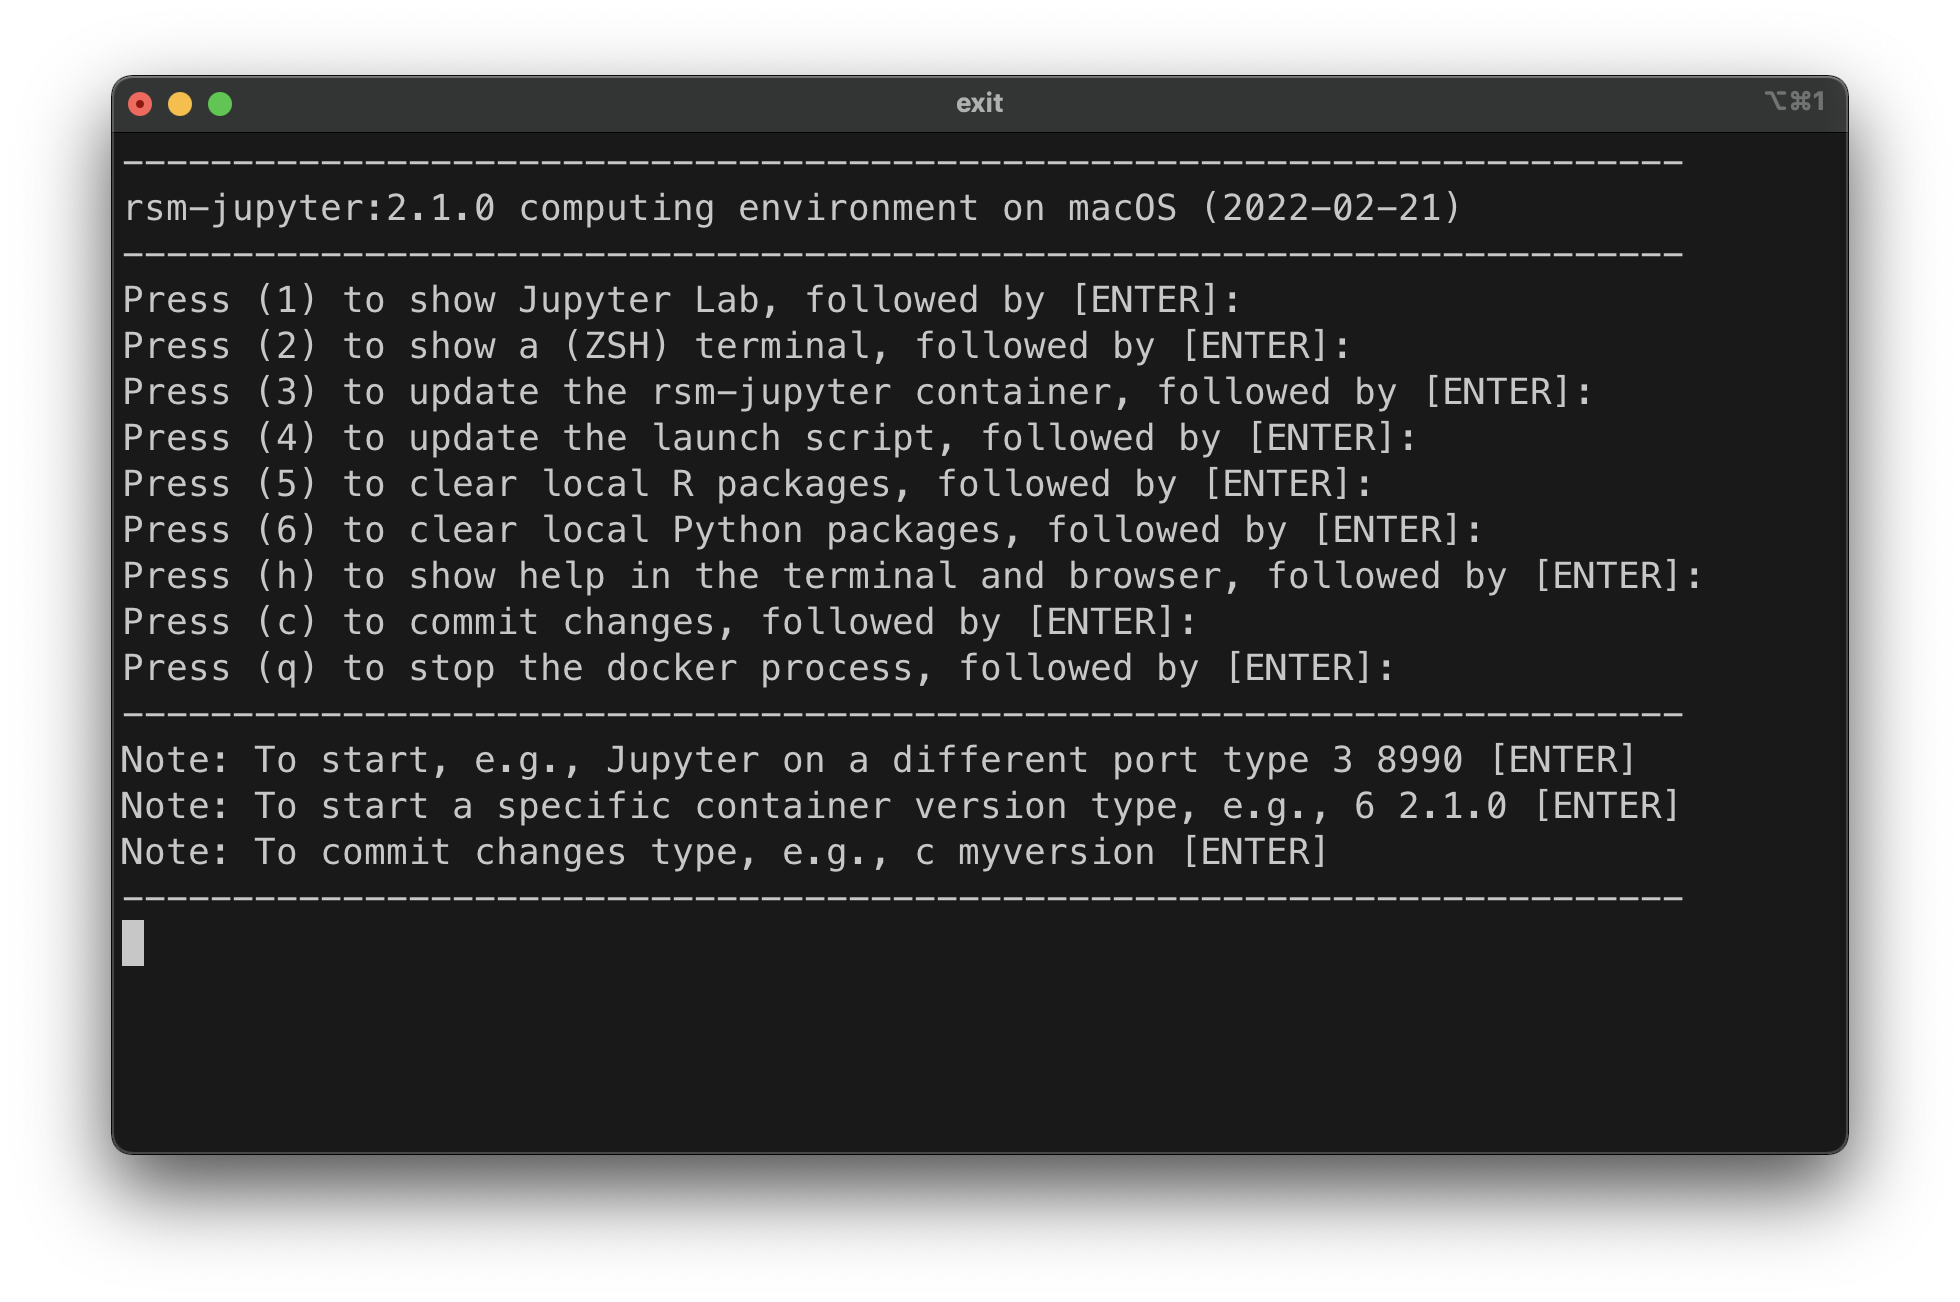
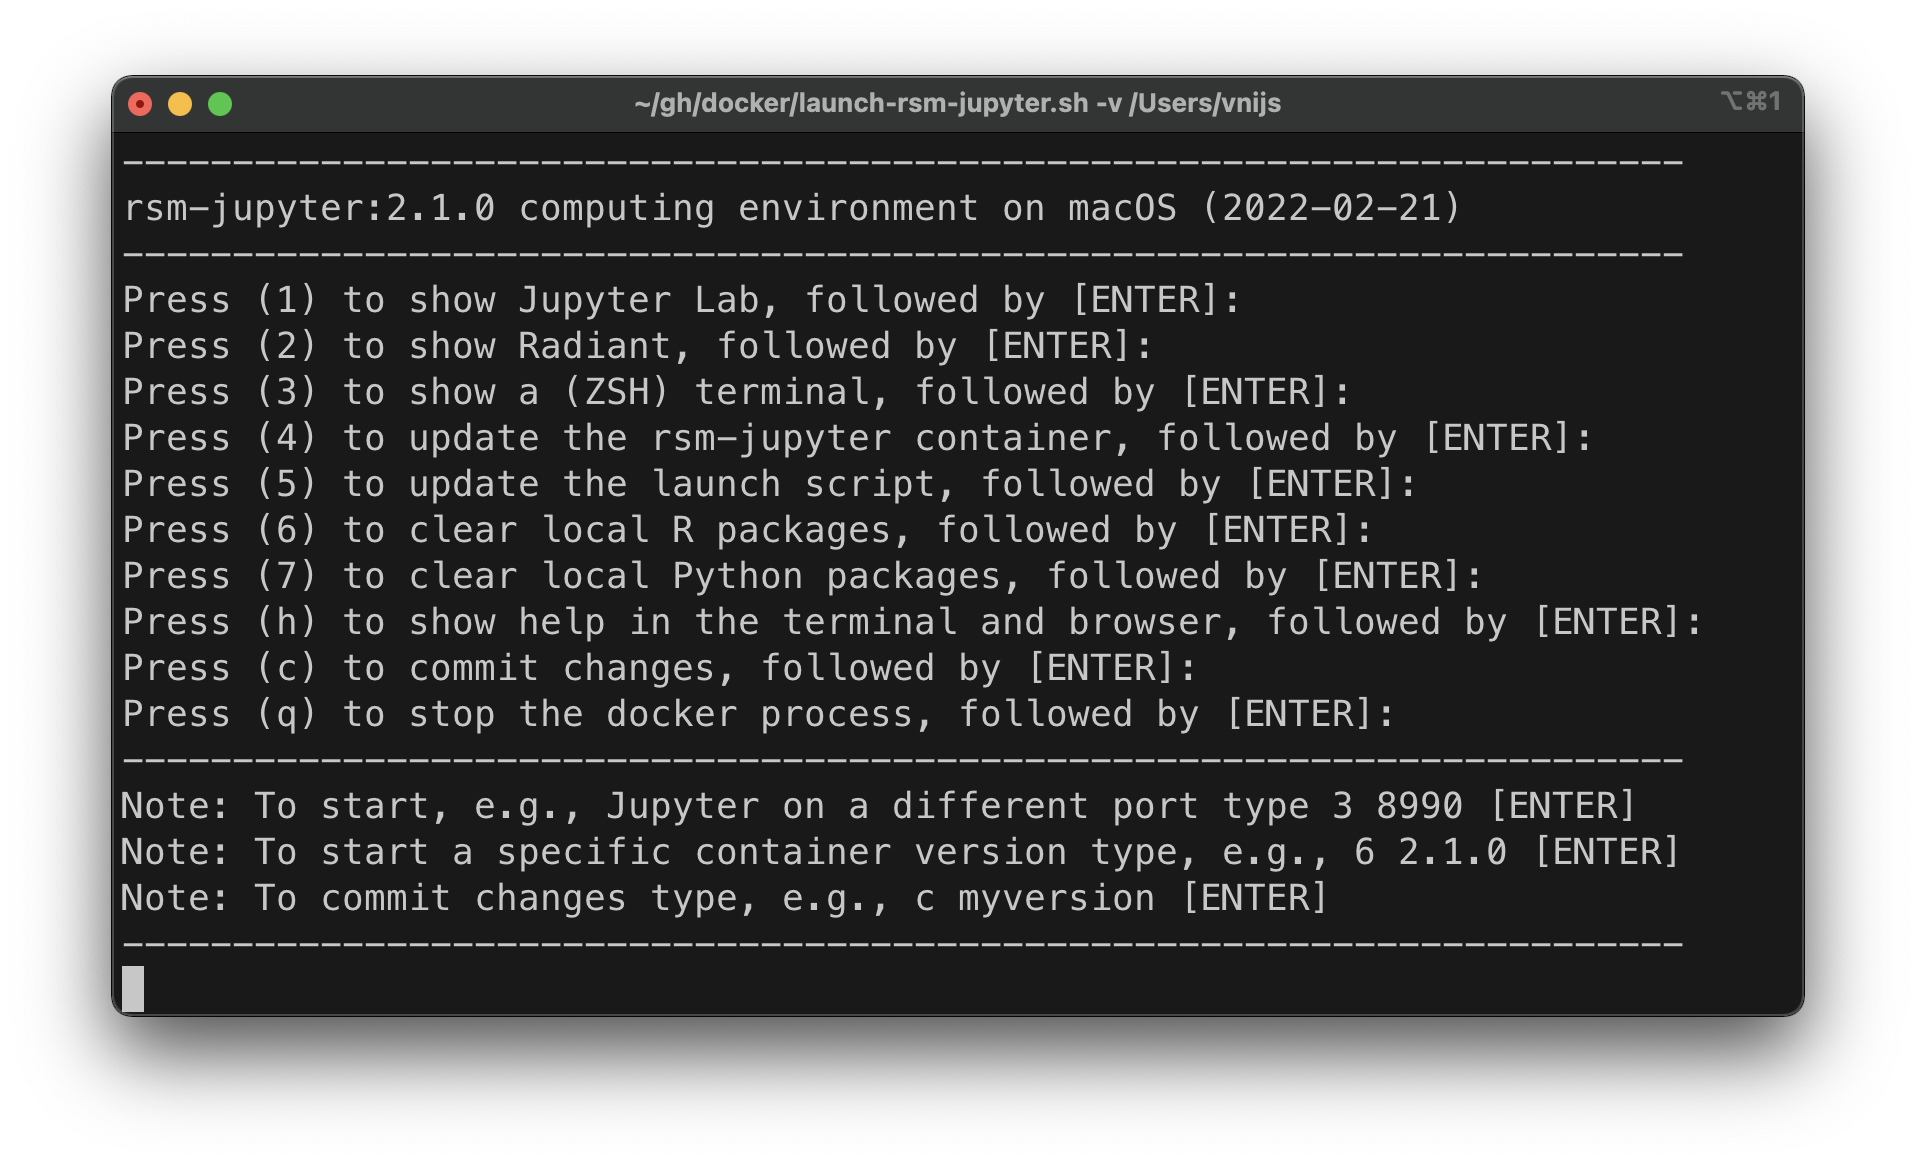
add radiant

diff --git a/install/rsm-msba-macos-m1.md b/install/rsm-msba-macos-m1.md
@@ -15,7 +15,7 @@
 
 ## Installing the RSM-MSBA computing environment on macOS M1
 
-Please follow the instructions below to install the rsm-jupyter computing environment. It has R, Python, Jupyter Lab, Postgres, Spark and various required packages pre-installed. The computing environment will be consistent across all students and faculty, easy to update, and also easy to remove if desired (i.e., there will *not* be dozens of pieces of software littered all over your computer).
+Please follow the instructions below to install the rsm-jupyter computing environment. It has R, Radiant, Python, Jupyter Lab, Postgres, Spark and various required packages pre-installed. The computing environment will be consistent across all students and faculty, easy to update, and also easy to remove if desired (i.e., there will *not* be dozens of pieces of software littered all over your computer).
 
 **Step 1**: Install docker from the link below and make sure it is running. You will know it is running if you see the icon below at the top-right of your screen. If the containers in the image are moving up and down docker hasn't finished starting up yet.
 
@@ -88,7 +88,7 @@ git clone https://github.com/radiant-rstats/docker.git ~/git/docker;
 cp -p ~/git/docker/launch-rsm-jupyter.sh ~/Desktop/launch-rsm-jupyter.command;
 ```
 
-## Using VS Code for Python
+## Using VS Code
 
 Microsoft's open-source integrated development environment (IDE), VS Code or Visual Studio Code, was the most popular development environment in according to a [Stack Overflow developer survey](https://insights.stackoverflow.com/survey/2018#development-environments-and-tools). VS Code is widely used by Google developers and is the [default development environment at Facebook](https://www.zdnet.com/article/facebook-microsofts-visual-studio-code-is-now-our-default-development-platform/).
 
@@ -251,11 +251,11 @@ For additional resources on developing docker images see the links below:
 
 ## Cleanup
 
-To remove locally installed R-packages, press 5 (and Enter) in the launch menu. To remove locally installed Python modules press 6 (and Enter) in the launch menu.
+To remove locally installed R-packages, press 6 (and Enter) in the launch menu. To remove locally installed Python modules press 7 (and Enter) in the launch menu.
 
 > Note: It is also possible initiate the process of removing locally installed packages and settings from within the container. Open a terminal in Jupyter Lab and type `clean`. Then follow the prompts to indicate what needs to be removed.
 
-You should always stop the `rsm-jupyter` docker container using `q` (and Enter) in the launch menu. If you want a full cleanup and reset of the computational environment on your system, however, execute the following commands from a (bash) terminal to (1) remove prior R and Python settings, (2) remove all docker images, networks, and (data) volumes, and (3) 'pull' only the docker image you need (e.g., rsm-msba-spark):
+You should always stop the `rsm-jupyter` docker container using `q` (and Enter) in the launch menu. If you want a full cleanup and reset of the computational environment on your system, however, execute the following commands from a (bash) terminal to (1) remove prior R and Python packages, (2) remove all docker images, networks, and (data) volumes, and (3) 'pull' only the docker image you need (e.g., rsm-jupyter):
 
 ```bash
 rm -rf ~/.rsm-msba;
